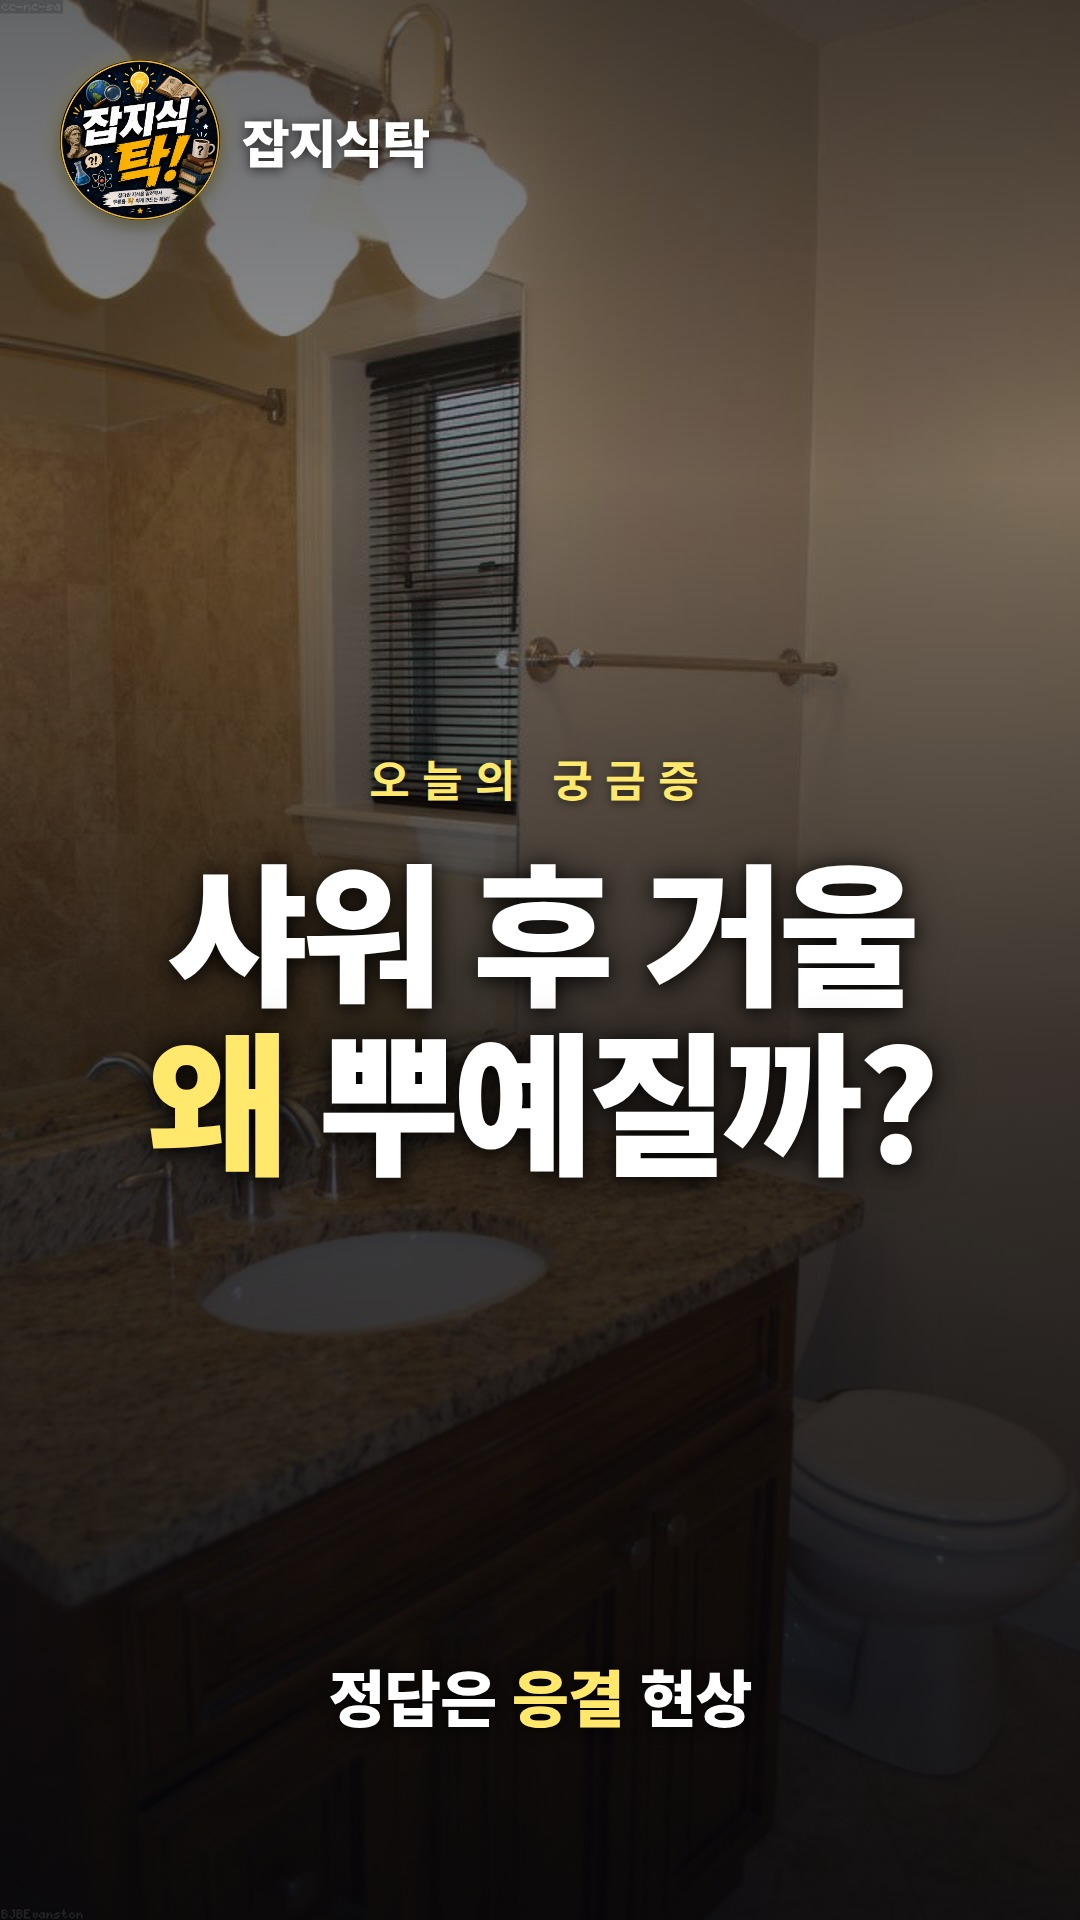
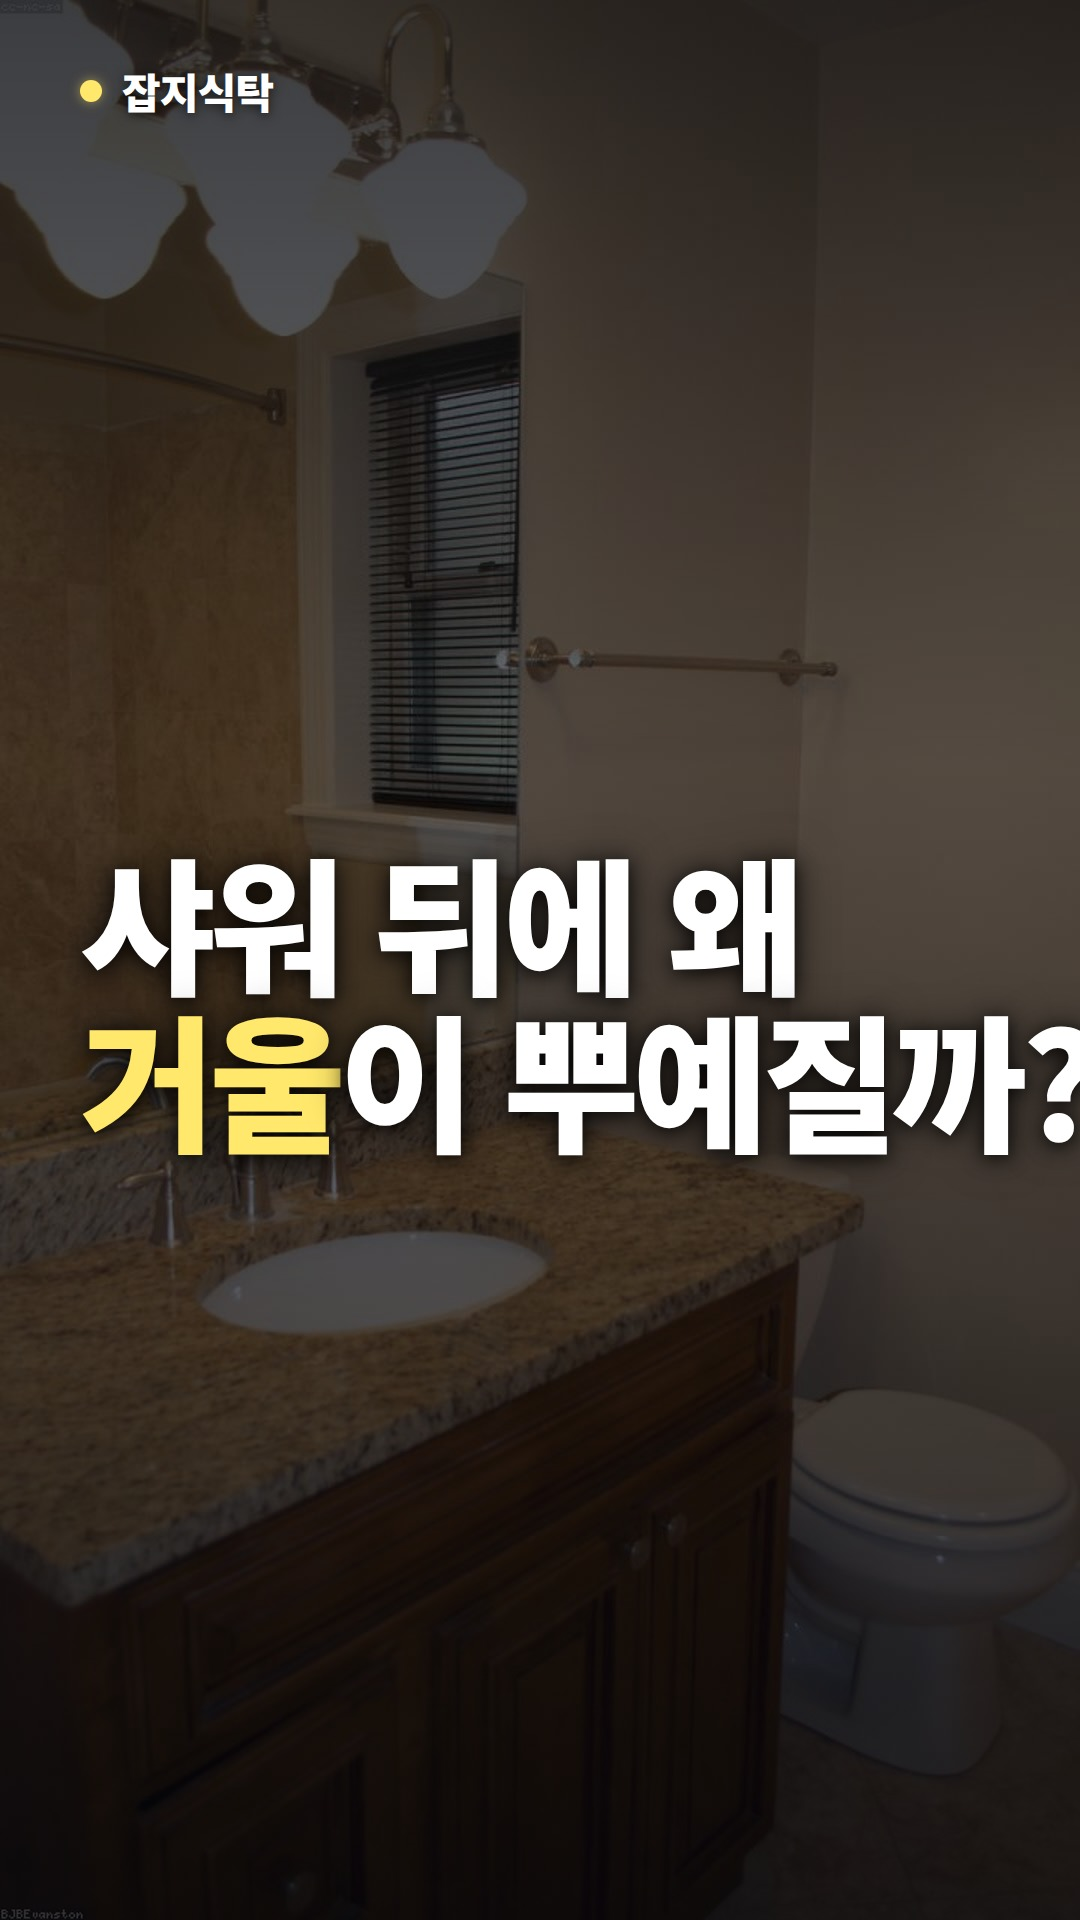
썸네일 스타일을 blanket-smell 참조본에 맞게 재정비
이전 버전은 아이콘+워드마크+eyebrow+하단훅+중앙정렬 복합 구성이었는데,
사용자가 보여준 참조본은 미니 브랜드칩 + 좌정렬 대형 두 줄 타이틀만
있는 미니멀 구성. 참조 그대로 재작업.

thumbnail.html 변경:
- 좌상단 브랜드: 160×160 아이콘 사진 → 22×22 노랑 도트 + "잡지식탁"
  워드마크 (칩 형태)
- eyebrow "오늘의 궁금증", 하단 훅 "정답은 응결 현상" 모두 제거
- 타이틀: 중앙정렬 → 좌정렬 (left: 80, top: 44%)
- font-size 154 → 148, white-space: nowrap 추가 (자동 개행 방지)
- 강조어: "왜" → "거울" (참조본과 동일 패턴 — 강조는 궁금증의 대상 명사)
- 카피: "샤워 뒤에 왜 / 거울이 뿌예질까?" (참조 "새 이불에서 왜 /
  냄새가 날까?"와 유사한 자수)

잡지식탁_쇼츠_썸네일.md 전면 재작성:
- §3 레이아웃을 3존 → 2존으로 축소
- 브랜드칩 규격 도트+워드마크로 재정의 (영상의 160×160과 다름)
- §4 카피 규칙: 각 줄 5~9자, 첫 줄 "왜"로 끝, 강조어는 두번째 줄 명사
- §8 체크리스트 재작성

Claude-Session: https://claude.ai/code/session_013sM5sWPRvrsoJcjwEtHqWt

diff --git a/videos/mirror-fog-shorts/thumbnail.html b/videos/mirror-fog-shorts/thumbnail.html
@@ -35,60 +35,52 @@
         background-image: url('public/bg/01.jpg');
         background-size: cover; background-position: center;
       }
-      /* Strong dark veil for readability, but not fully black — first bg still visible */
+      /* Heavy overall darkening so the background reads as mood, not detail */
       .veil {
         position: absolute; inset: 0;
         background: linear-gradient(180deg,
-          rgba(5,6,10,0.62) 0%,
-          rgba(5,6,10,0.42) 25%,
-          rgba(5,6,10,0.72) 55%,
-          rgba(5,6,10,0.88) 100%);
+          rgba(5,6,10,0.78) 0%,
+          rgba(5,6,10,0.60) 40%,
+          rgba(5,6,10,0.68) 70%,
+          rgba(5,6,10,0.82) 100%);
       }
-      /* Brand top-left */
+
+      /* Small brand mark: yellow dot + wordmark */
       .brand {
-        position: absolute; top: 60px; left: 60px;
-        display: flex; align-items: center; gap: 22px;
+        position: absolute; top: 60px; left: 80px;
+        display: flex; align-items: center; gap: 20px;
       }
-      .brand .icon {
-        width: 160px; height: 160px; border-radius: 50%;
-        object-fit: cover; overflow: hidden;
-        box-shadow: 0 0 22px rgba(255,232,107,0.35), 0 4px 18px rgba(0,0,0,0.65);
+      .brand .dot {
+        width: 22px; height: 22px; border-radius: 50%;
+        background: #ffe86b;
+        box-shadow: 0 0 12px rgba(255,232,107,0.5);
       }
       .brand .wm {
-        font-weight: 900; font-size: 52px; letter-spacing: -0.02em;
-        color: #ffffff; text-shadow: 0 2px 12px rgba(0,0,0,0.7);
+        font-weight: 900; font-size: 42px; letter-spacing: -0.02em;
+        color: #ffffff;
+        text-shadow: 0 2px 12px rgba(0,0,0,0.7);
       }
 
-      /* Center big title */
+      /* Left-aligned huge title, positioned around mid-lower */
       .title-block {
         position: absolute;
-        left: 60px; right: 60px;
-        top: 50%; transform: translateY(-50%);
-        display: flex; flex-direction: column; align-items: center;
-        text-align: center;
-        gap: 12px;
-      }
-      .title-block .eyebrow {
-        font-weight: 700; font-size: 44px; letter-spacing: 0.28em;
-        color: #ffe86b; text-transform: uppercase;
-        text-shadow: 0 2px 10px rgba(0,0,0,0.6);
-        margin-bottom: 26px;
+        left: 80px; right: 80px;
+        top: 44%;
+        display: flex; flex-direction: column;
+        align-items: flex-start;
+        text-align: left;
       }
       .title-block .line {
-        font-weight: 900; font-size: 154px; line-height: 1.02;
-        letter-spacing: -0.045em; color: #ffffff;
+        font-weight: 900;
+        font-size: 148px;
+        line-height: 1.02;
+        letter-spacing: -0.045em;
+        color: #ffffff;
+        white-space: nowrap; word-break: keep-all;
         text-shadow: 0 3px 20px rgba(0,0,0,0.85), 0 0 40px rgba(0,0,0,0.5);
       }
+      .title-block .line + .line { margin-top: 6px; }
       .title-block .line .accent { color: #ffe86b; }
-
-      /* Bottom hook */
-      .bottom-hook {
-        position: absolute; left: 0; right: 0; bottom: 180px;
-        text-align: center;
-        font-weight: 800; font-size: 62px; letter-spacing: -0.02em;
-        color: #ffffff; text-shadow: 0 2px 14px rgba(0,0,0,0.85);
-      }
-      .bottom-hook .accent { color: #ffe86b; }
     </style>
   </head>
   <body>
@@ -97,18 +89,13 @@
       <div class="veil"></div>
 
       <div class="brand">
-        <img class="icon" src="public/brand/channel-icon.png" alt="잡지식탁" />
+        <span class="dot"></span>
         <span class="wm">잡지식탁</span>
       </div>
 
       <div class="title-block">
-        <div class="eyebrow">오늘의 궁금증</div>
-        <div class="line">샤워 후 거울</div>
-        <div class="line"><span class="accent">왜</span> 뿌예질까?</div>
-      </div>
-
-      <div class="bottom-hook">
-        정답은 <span class="accent">응결</span> 현상
+        <div class="line">샤워 뒤에 왜</div>
+        <div class="line"><span class="accent">거울</span>이 뿌예질까?</div>
       </div>
     </div>
   </body>

diff --git a/잡지식탁_쇼츠_썸네일.md b/잡지식탁_쇼츠_썸네일.md
@@ -1,86 +1,83 @@
-# 잡지식탁 쇼츠 썸네일 템플릿
+# 잡지식탁 쇼츠 썸네일 템플릿 (blanket-smell 기반)
 
 > 트리거: **"썸네일 만들어줘"** / **"이전에 만들었던 스타일로 썸네일"**
 > 짝이 되는 영상 템플릿: `잡지식탁-쇼츠-템플릿.md`.
 > 참조 산출물: `videos/<프로젝트>-shorts/thumbnail.html`, `videos/<프로젝트>-shorts/public/thumbnail.jpg`.
+> 원형: 이전 blanket-smell / rain-smell 시리즈 썸네일 (미니 브랜드칩 좌상단 + 좌정렬 대형 두 줄 타이틀).
 
 ---
 
 ## 1. 캔버스
 
 - 해상도: **1080 × 1920** (세로 쇼츠 / 유튜브 쇼츠 커버)
-- 포맷: **JPG**, 품질 92 (파일 200~400KB 목표)
+- 포맷: **JPG**, 품질 92 (파일 150~250KB 목표)
 - 파일 위치: `videos/<프로젝트>-shorts/public/thumbnail.jpg`
 - 원본 HTML: `videos/<프로젝트>-shorts/thumbnail.html` (버전 관리 대상)
 - 폰트: **Noto Sans KR** (`public/vendor/NotoSansKR-{Regular,Bold,Black}.woff2`)
 - 배경 컬러 폴백: `#05060a`
 - 스무딩: `-webkit-font-smoothing: antialiased`
 
-## 2. 색상 (영상 템플릿 §3와 동일)
+## 2. 색상 (영상 템플릿 §3와 동일 팔레트)
 
 - 배경 컬러: `#05060a`
 - 본문/제목: `#ffffff`
-- 강조색 (`.accent`): `#ffe86b` — **제목·서브훅에서만 사용**
-- 텍스트 그림자: `0 3px 20px rgba(0,0,0,0.85), 0 0 40px rgba(0,0,0,0.5)` (제목),  `0 2px 12px rgba(0,0,0,0.7)` (그 외)
+- 강조색 (`.accent`): `#ffe86b` — **제목의 핵심 단어에만 사용** (한 단어)
+- 브랜드 도트 색: `#ffe86b`
+- 텍스트 그림자: `0 3px 20px rgba(0,0,0,0.85), 0 0 40px rgba(0,0,0,0.5)` (제목),  `0 2px 12px rgba(0,0,0,0.7)` (브랜드)
 
-## 3. 레이아웃 (3개 존)
+## 3. 레이아웃 (2개 존만)
 
-썸네일은 정지 이미지이므로 영상의 3분할 밴드 대신 **배경 풀-블리드 + 3개 텍스트 존** 구조:
+**미니멀 구성.** eyebrow·bottom hook 같은 부가 카피는 없음 — 시선을 대형 두 줄 타이틀 하나에 집중.
 
 | 존 | 위치 | 역할 |
 |---|---|---|
-| 상단 브랜드 | `top: 60, left: 60` | 아이콘 160×160 + 워드마크 |
-| 중앙 제목 | `top: 50%` (translateY -50%) | 오늘의 궁금증 + 두 줄 제목 |
-| 하단 훅 | `bottom: 180` | 답/키워드 한 줄 (강조어 노랑) |
+| 좌상단 브랜드칩 | `top: 60, left: 80` | 노랑 도트 + "잡지식탁" 워드마크 |
+| 좌정렬 대형 타이틀 | `top: 44%` (translateY 없음, 위 기준선) | 두 줄, 강조어 노랑 |
 
 ### 배경
 
 - `<div class="bg">` : 프로젝트 첫 씬 이미지(`public/bg/01.jpg`)를 `background-size: cover; background-position: center`로 풀-블리드
-- `<div class="veil">` : 위→아래 gradient 어두운 오버레이 (텍스트 판독성)
-  - 위쪽: `rgba(5,6,10,0.62)` — 상단 브랜드 배경 확보
-  - 25%: `rgba(5,6,10,0.42)` — 배경 이미지 살짝 노출
-  - 55%: `rgba(5,6,10,0.72)` — 제목 뒤 어둡게
-  - 하단: `rgba(5,6,10,0.88)` — 훅 확실히 판독
+- `<div class="veil">` : 강한 어둠 오버레이 gradient (텍스트 판독성 최우선, 배경은 mood로만 남김)
+  - `linear-gradient(180deg, rgba(5,6,10,0.78) 0%, rgba(5,6,10,0.60) 40%, rgba(5,6,10,0.68) 70%, rgba(5,6,10,0.82) 100%)`
 
-### 상단 브랜드
+### 좌상단 브랜드칩 (핵심 변경 — 영상 아이콘과 다름)
 
-- `.brand` : `top: 60, left: 60`, flex row, `gap: 22`
-- `.icon` : **160×160 원형** (영상 템플릿 §2와 동일 크기)
-  - `border-radius: 50%`, `object-fit: cover`
-  - `box-shadow: 0 0 22px rgba(255,232,107,0.35), 0 4px 18px rgba(0,0,0,0.65)`
-  - 소스: `public/brand/channel-icon.png`
-- `.wm` : **아이콘 옆 워드마크 있음** (썸네일 한정 — 영상은 없음)
-  - `font-weight: 900, font-size: 52, letter-spacing: -0.02em`, 흰색
-  - 이유: 정지 이미지라 채널명이 한눈에 들어와야 함. 영상에선 아이콘만.
+- `.brand` : `top: 60, left: 80`, `display: flex; align-items: center; gap: 20`
+- `.dot` : **22×22 원형 노랑 점**
+  - `background: #ffe86b`, `border-radius: 50%`
+  - `box-shadow: 0 0 12px rgba(255,232,107,0.5)` (은은한 글로우)
+  - **영상의 160×160 원형 아이콘 사진과 다름.** 썸네일은 이미지가 시선 압도자이므로 브랜드는 최소화 (도트+텍스트 칩).
+- `.wm` : "잡지식탁"
+  - `font-weight: 900, font-size: 42px, letter-spacing: -0.02em`, 흰색
+  - `text-shadow: 0 2px 12px rgba(0,0,0,0.7)`
 
-### 중앙 제목
+### 좌정렬 대형 타이틀
 
-- `.title-block` : 화면 정중앙 (`top: 50%; transform: translateY(-50%)`)
-- `.eyebrow` : 상단 미니 카피 (예: `"오늘의 궁금증"`)
-  - `font-weight: 700, font-size: 44, letter-spacing: 0.28em, uppercase`
-  - **색상: 노랑(`#ffe86b`)** — 브랜드 액센트로 시선 유도
-  - `margin-bottom: 26`
-- `.line` : 두 줄 제목, 각 줄 `<span class="line">` 로 감싸기
-  - `font-weight: 900, font-size: 154, line-height: 1.02, letter-spacing: -0.045em`
+- `.title-block` : `left: 80, right: 80, top: 44%`
+  - `display: flex; flex-direction: column; align-items: flex-start; text-align: left`
+  - **좌정렬**. 중앙정렬 아님 — 참조 스타일 그대로.
+- `.line` : 두 줄, 각 줄을 `<div class="line">`로 감싸기
+  - `font-weight: 900, font-size: 148px, line-height: 1.02, letter-spacing: -0.045em`
+  - `white-space: nowrap; word-break: keep-all` — 두 줄 강제, 중간 개행 방지
   - 흰색 기본, 강조어에 `<span class="accent">` (노랑)
-  - 두 줄 강제 (`flex-direction: column`, `align-items: center`, `text-align: center`)
-  - 서체 크기는 **142~158px 범위**에서 라인 글자수에 맞춰 조정 (짧으면 크게, 길면 작게)
-
-### 하단 훅
-
-- `.bottom-hook` : `bottom: 180`, 가운데 정렬
-- `font-weight: 800, font-size: 62, letter-spacing: -0.02em`, 흰색
-- 강조어에 `.accent` (노랑) — 영상 핵심 키워드/정답 (예: `"응결"`, `"뜨거운 물"`)
-- 역할: 제목이 질문이면 훅은 힌트/티저. 미리보기 클릭 유도.
+  - `.line + .line { margin-top: 6px }`
+- **폰트 크기 자동 조정**: 한 줄 폭이 920px(=1080-2·80)를 넘으면 카피를 줄이거나 폰트를 132~148px 사이에서 낮춤. 절대 자동 개행 시키지 말 것.
 
 ## 4. 카피 작성 원칙
 
-- **제목**: 영상 타이틀과 완전히 일치시켜 CTR 시너지 (본편 브랜드 인지). 두 줄 강제.
-- **eyebrow**: `"오늘의 궁금증"`, `"매일의 잡학"`, `"3줄 요약"` 등 시리즈 라벨. 짧게 (4~8자).
-- **하단 훅**: 정답 한 줄 스포일러 or 힌트 (5~12자). 예:
-  - 원리 영상 → `"정답은 <강조>키워드</강조> 현상"`
-  - 팁 영상 → `"핵심은 <강조>실전 팁</강조>"`
-  - 비교 영상 → `"결론: <강조>A vs B</강조>"`
+- **총 두 줄, 각 줄 5~9자**. 참조: "새 이불에서 왜 / 냄새가 날까?" (7자 / 6자).
+- **첫 줄**: 상황/조건 + "왜" 로 끝남 (질문 톤 유지).
+- **두 번째 줄**: 주어(강조어) + 서술어 + `?` — 예: "냄새가 날까?", "거울이 뿌예질까?", "머리가 지끈할까?"
+- **강조어**: 두 번째 줄의 **핵심 명사 하나만**. 색은 노랑(`.accent`).
+  - 참조: "냄새", "거울", "머리" 같은 주제어.
+  - 절대 "왜"에 강조 걸지 말 것. 강조는 궁금증의 대상(what)에.
+- **영상 타이틀과 100% 일치할 필요는 없음** — 썸네일용으로 축약/변형 가능. 참조 스타일(blanket-smell)도 영상 타이틀보다 짧음.
+- 여러 카피 후보를 만들 때 우선순위: (1) 각 줄 ≤ 9자 (2) 첫 줄 끝 "왜" (3) 강조어는 명사.
+
+### 이번 프로젝트(mirror-fog) 실제 카피
+
+- Line 1: `샤워 뒤에 왜`
+- Line 2: `<accent>거울</accent>이 뿌예질까?`
 
 ## 5. 파이프라인 (썸네일 만들기)
 
@@ -137,20 +134,21 @@ node scripts/render-thumbnail.mjs
 - 기본: **프로젝트 첫 씬 배경**(`public/bg/01.jpg`)을 그대로 사용.
 - 첫 씬이 인물·문자·산만한 요소가 있어 텍스트 판독을 방해하면 다른 씬 이미지로 교체 (`bg/03.jpg` 등).
 - 후보가 없으면 solid `#05060a` + 액센트 SVG 요소로 대체 가능 (fallback).
+- 배경은 어차피 veil이 강하게 덮으므로 완벽할 필요 없음 — mood만 잡히면 OK.
 
 ## 7. 유튜브 업로드 가이드
 
 - 파일: `public/thumbnail.jpg` 다운로드 → 유튜브 스튜디오 "미리보기 이미지" 업로드
-- 크기: 1080×1920 (2:16:9 세로) — 쇼츠는 스튜디오에서 자동으로 세로 커버로 표시
-- 용량 상한: 2MB (유튜브 정책). 이 템플릿은 200~400KB 나옴.
+- 크기: 1080×1920 세로. 쇼츠는 스튜디오에서 자동으로 세로 커버로 표시
+- 용량 상한: 2MB (유튜브 정책). 이 템플릿은 150~250KB 나옴.
 
 ## 8. 체크리스트
 
 - [ ] 해상도 정확히 1080×1920인가?
 - [ ] 파일 크기 2MB 이하?
-- [ ] 브랜드 아이콘 160×160 좌상단에 있는가? 옆에 워드마크 있는가?
-- [ ] 제목이 두 줄, 154px(±12) 크기, 흰색 + `.accent` 노랑 강조인가?
-- [ ] eyebrow(짧은 라벨) 노랑, 대문자 스페이싱 넓은가?
-- [ ] 하단 훅에 강조어(정답/키워드) 노랑으로 걸렸는가?
-- [ ] 배경 veil이 아래로 갈수록 진해져서 하단 훅이 확실히 판독되는가?
-- [ ] 영상 타이틀과 썸네일 제목이 일치하는가?
+- [ ] 좌상단 브랜드칩이 노랑 도트 + "잡지식탁" 워드마크 조합인가? (사진 아이콘 아님)
+- [ ] 타이틀이 두 줄, **좌정렬**, 148px(±10), `white-space: nowrap`인가?
+- [ ] 각 줄이 5~9자 이내이고 자동 개행이 안 일어나는가?
+- [ ] 첫 줄이 "왜"로 끝나고, 강조어(`.accent`)는 두 번째 줄의 **핵심 명사 하나만**인가?
+- [ ] 배경 veil이 충분히 진해서 텍스트가 확실히 판독되는가?
+- [ ] eyebrow·bottom hook 같은 부가 카피는 없는가? (미니멀 유지)
